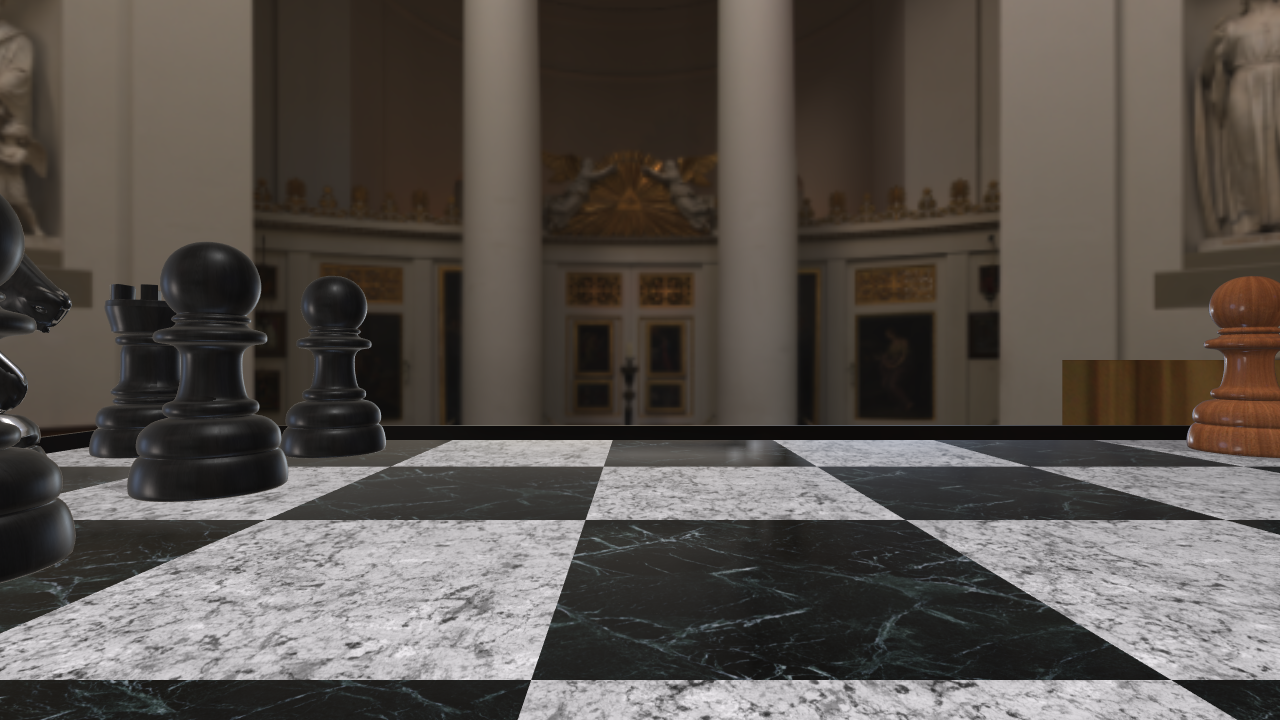
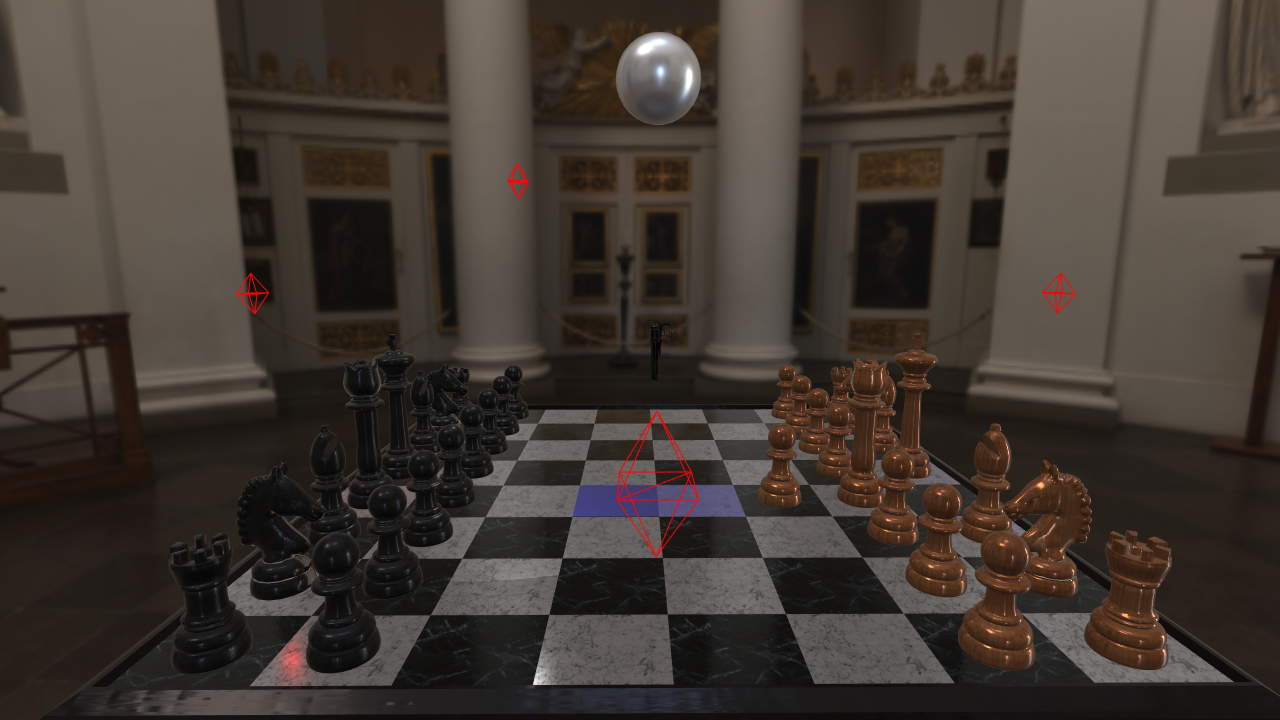
Fix normal map texture
Shader was blending 50% with default texture, but the default normal image was (0, 0, 1) instead of (0.5, 0.5, 1). After decoding this would result in a bad normal

diff --git a/vkRenderer/scene.cpp b/vkRenderer/scene.cpp
@@ -61,36 +61,31 @@ void CreateCodeAssets()
 
 			struct dbgColorImageInfo_t
 			{
-				Color		color;
 				char*		name;
+				Color		color;
 				imageFmt_t	format;
 			};
 
-			const Color colorAlb = Color( 1.0f, 1.0f, 1.0f );
-			const Color colorNml = Color( 0.0f, 0.0f, 1.0f );
-			const Color colorRgh = Color( 1.0f, 0.0f, 0.0f );
-			const Color colorMtl = Color( 0.6f, 0.0f, 0.0f );
-
 			static const dbgColorImageInfo_t colorInfo[ debugColorCount ] =
 			{
-				{ ColorRed,		"_red",			imageFmt_t::IMAGE_FMT_RGBA_8 },
-				{ ColorGreen,	"_green",		imageFmt_t::IMAGE_FMT_RGBA_8 },
-				{ ColorBlue,	"_blue",		imageFmt_t::IMAGE_FMT_RGBA_8 },
-				{ ColorWhite,	"_white",		imageFmt_t::IMAGE_FMT_RGBA_8 },
-				{ ColorBlack,	"_black",		imageFmt_t::IMAGE_FMT_RGBA_8 },
-				{ ColorLGrey,	"_lightGrey",	imageFmt_t::IMAGE_FMT_RGBA_8 },
-				{ ColorDGrey,	"_darkGrey",	imageFmt_t::IMAGE_FMT_RGBA_8 },
-				{ ColorBrown,	"_brown",		imageFmt_t::IMAGE_FMT_RGBA_8 },
-				{ ColorCyan,	"_cyan",		imageFmt_t::IMAGE_FMT_RGBA_8 },
-				{ ColorYellow,	"_yellow",		imageFmt_t::IMAGE_FMT_RGBA_8 },
-				{ ColorPurple,	"_purple",		imageFmt_t::IMAGE_FMT_RGBA_8 },
-				{ ColorOrange,	"_orange",		imageFmt_t::IMAGE_FMT_RGBA_8 },
-				{ ColorPink,	"_pink",		imageFmt_t::IMAGE_FMT_RGBA_8 },
-				{ ColorGold,	"_gold",		imageFmt_t::IMAGE_FMT_RGBA_8 },
-				{ colorAlb,		"_alb",			imageFmt_t::IMAGE_FMT_RGBA_8_UNORM },
-				{ colorNml,		"_nml",			imageFmt_t::IMAGE_FMT_RGBA_8_UNORM },
-				{ colorRgh,		"_rgh",			imageFmt_t::IMAGE_FMT_RGBA_8_UNORM },
-				{ colorMtl,		"_mtl",			imageFmt_t::IMAGE_FMT_RGBA_8_UNORM },
+				{ "_red",		ColorRed,					imageFmt_t::IMAGE_FMT_RGBA_8 },
+				{ "_green",		ColorGreen,					imageFmt_t::IMAGE_FMT_RGBA_8 },
+				{ "_blue",		ColorBlue,					imageFmt_t::IMAGE_FMT_RGBA_8 },
+				{ "_white",		ColorWhite,					imageFmt_t::IMAGE_FMT_RGBA_8 },
+				{ "_black",		ColorBlack,					imageFmt_t::IMAGE_FMT_RGBA_8 },
+				{ "_lightGrey",	ColorLGrey,					imageFmt_t::IMAGE_FMT_RGBA_8 },
+				{ "_darkGrey",	ColorDGrey,					imageFmt_t::IMAGE_FMT_RGBA_8 },
+				{ "_brown",		ColorBrown,					imageFmt_t::IMAGE_FMT_RGBA_8 },
+				{ "_cyan",		ColorCyan,					imageFmt_t::IMAGE_FMT_RGBA_8 },
+				{ "_yellow",	ColorYellow,				imageFmt_t::IMAGE_FMT_RGBA_8 },
+				{ "_purple",	ColorPurple,				imageFmt_t::IMAGE_FMT_RGBA_8 },
+				{ "_orange",	ColorOrange,				imageFmt_t::IMAGE_FMT_RGBA_8 },
+				{ "_pink",		ColorPink,					imageFmt_t::IMAGE_FMT_RGBA_8 },
+				{ "_gold",		ColorGold,					imageFmt_t::IMAGE_FMT_RGBA_8 },
+				{ "_alb",		Color( 1.0f, 1.0f, 1.0f ),	imageFmt_t::IMAGE_FMT_RGBA_8_UNORM },
+				{ "_nml",		Color( 0.5f, 0.5f, 1.0f ),	imageFmt_t::IMAGE_FMT_RGBA_8_UNORM },
+				{ "_rgh",		Color( 1.0f, 0.0f, 0.0f ),	imageFmt_t::IMAGE_FMT_RGBA_8_UNORM },
+				{ "_mtl",		Color( 0.6f, 0.0f, 0.0f ),	imageFmt_t::IMAGE_FMT_RGBA_8_UNORM },
 			};
 
 			imageInfo_t defaultInfo = DefaultImage2dInfo( 1, 1 );
